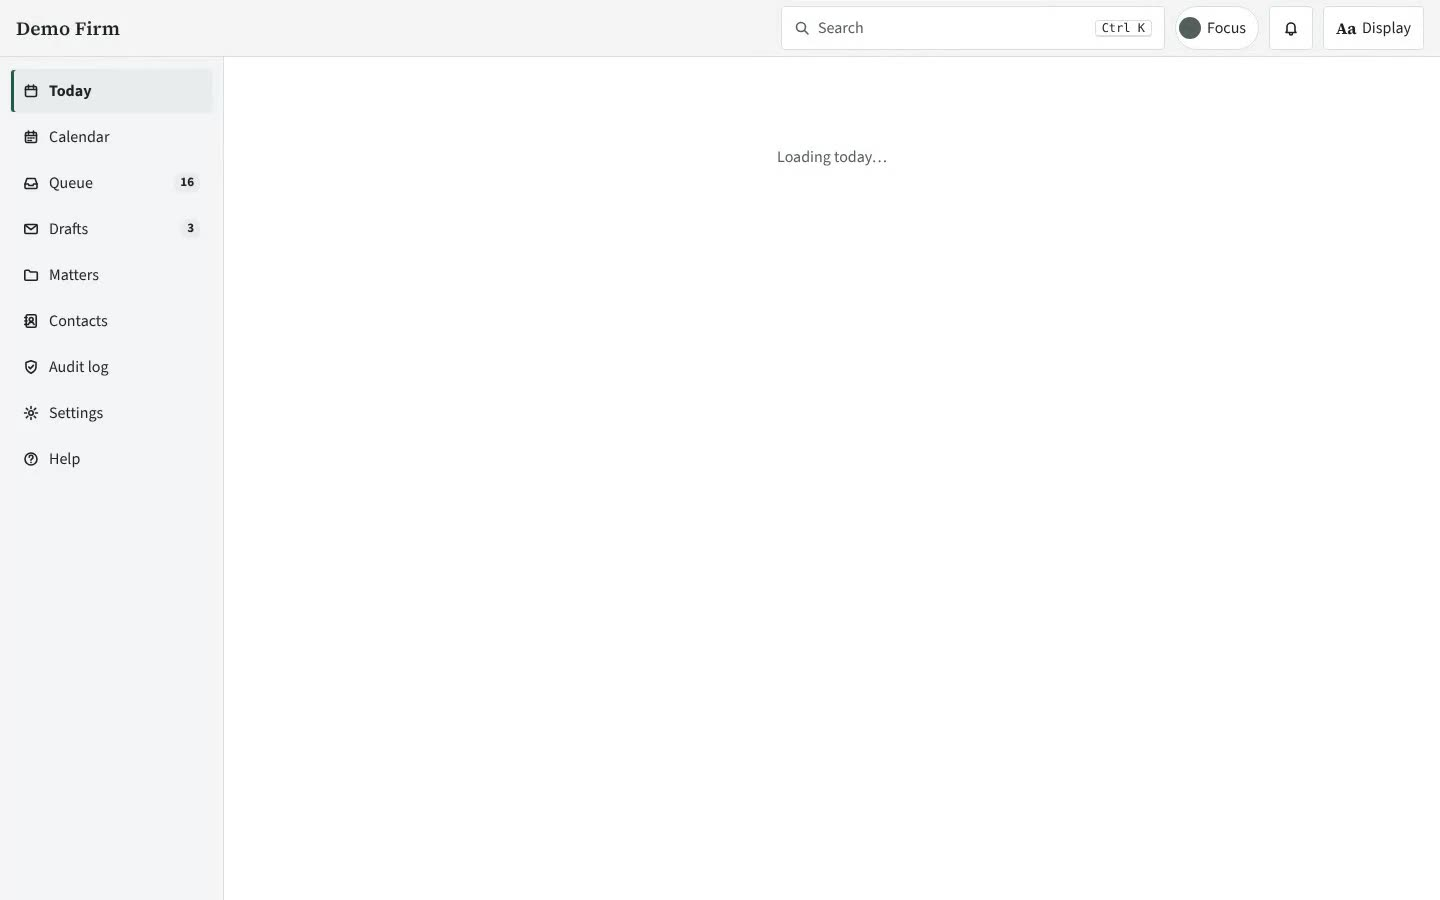
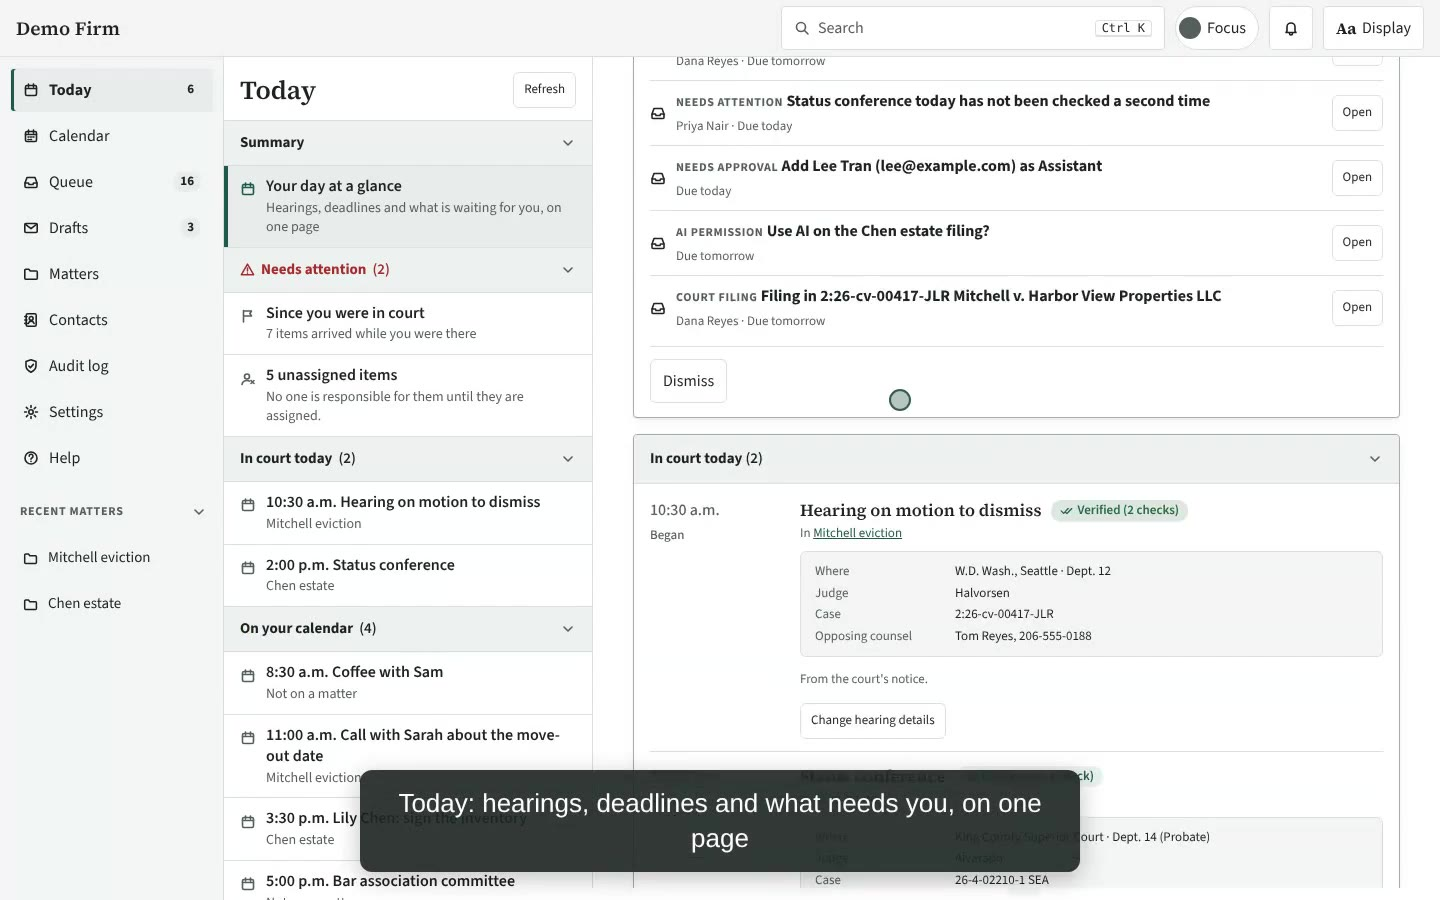
Website: video and screenshots fit the page (#18)
* Home and MatterSeal pages: say clearly what we build, how, for whom, and how firms pay

Google for Startups Cloud Program turned the application down because the
website didn't clearly describe the product and technology. The home page now
leads with MatterSeal, the problem, who it's for, the Google Cloud architecture,
the subscription prices, the company and contact. The MatterSeal page gains
'How MatterSeal is built' and 'How firms pay', and mentions the web version.

Claude-Session: https://claude.ai/code/session_01Ud3GrCnAWJSWNYQtaNFx8G

* Home page: sole practitioners and small firms; say we're building MatterSeal, not in a pilot

Claude-Session: https://claude.ai/code/session_01Ud3GrCnAWJSWNYQtaNFx8G

* Home page: MatterSeal works today and is in testing before launch

Claude-Session: https://claude.ai/code/session_01Ud3GrCnAWJSWNYQtaNFx8G

* Home and MatterSeal pages: a silent 47-second tour and four screenshots of the app

Recorded from the app's browser demo with made-up sample data (Demo Firm).

Claude-Session: https://claude.ai/code/session_01Ud3GrCnAWJSWNYQtaNFx8G

* Website: no founder name or prices; list the plans; add ransomware protection, AI cost, citations, client portal and audit features

Claude-Session: https://claude.ai/code/session_01Ud3GrCnAWJSWNYQtaNFx8G

* Website: AI agents and the AI supervision report, marked under development

Claude-Session: https://claude.ai/code/session_01Ud3GrCnAWJSWNYQtaNFx8G
[…]

diff --git a/index.html b/index.html
@@ -5,10 +5,10 @@
   <meta name="viewport" content="width=device-width, initial-scale=1">
   <title>Pangur Labs · Makers of MatterSeal</title>
   <meta name="description" content="Pangur Labs LLC builds MatterSeal, software that turns a small law firm's Gmail, Google Calendar and Google Drive into organized matters with confirmed court deadlines. Runs on Google Cloud. Sold as a monthly subscription.">
-  <link rel="stylesheet" href="style.css">
+  <link rel="stylesheet" href="style.css?v=2026-11-08">
 </head>
 <body>
-  <div class="wrap">
+  <div class="wrap wide">
     <main>
       <h1>Pangur Labs</h1>
       <p class="tagline">We build MatterSeal: case management for small law firms that run on Google Workspace.</p>
@@ -18,20 +18,22 @@
       <p><a class="button" href="matterseal/index.html">See how MatterSeal works</a></p>
 
       <h2>See it working</h2>
-      <p>A tour of MatterSeal, under two minutes long,, recorded in the app with made-up sample data. There is no sound; captions explain each step.</p>
-      <video class="demo" controls muted playsinline preload="metadata" poster="matterseal/img/demo-poster.jpg">
+      <p>A tour of MatterSeal, under two minutes long, recorded in the app with made-up sample data. There is no sound; captions explain each step.</p>
+      <div class="media">
+      <video class="demo" controls muted playsinline preload="metadata" width="1440" height="900" style="max-width:100%;height:auto" poster="matterseal/img/demo-poster.jpg">
         <source src="matterseal/img/demo.mp4" type="video/mp4">
         <a href="matterseal/img/demo.mp4">Download the tour (MP4)</a>
       </video>
       <div class="shots">
-        <figure><a href="matterseal/img/screen-ask.jpg"><img src="matterseal/img/screen-ask.jpg" alt="Two documents picked from a matter to send to AI, with what to do and the expected cost for each" loading="lazy" width="1600" height="1000"></a><figcaption>Pick documents from a matter, say what you want, and see the cost before anything goes to AI.</figcaption></figure>
-        <figure><a href="matterseal/img/screen-answer.jpg"><img src="matterseal/img/screen-answer.jpg" alt="The AI answer beside the document, with the bottom line first and links to the passages it relies on" loading="lazy" width="1600" height="1000"></a><figcaption>The answer, beside the document, pointing to the passages it relies on.</figcaption></figure>
-        <figure><a href="matterseal/img/screen-today.jpg"><img src="matterseal/img/screen-today.jpg" alt="MatterSeal's Today screen: today's hearings, deadlines and items waiting for review" loading="lazy" width="1600" height="1000"></a><figcaption>Today: hearings, deadlines and what is waiting for each person.</figcaption></figure>
-        <figure><a href="matterseal/img/screen-filing.jpg"><img src="matterseal/img/screen-filing.jpg" alt="A court filing matched to its matter, with the deadline MatterSeal proposes waiting for a person to confirm" loading="lazy" width="1600" height="1000"></a><figcaption>A court filing, matched to its matter. The deadline it proposes waits for a person to confirm it.</figcaption></figure>
-        <figure><a href="matterseal/img/screen-ai.jpg"><img src="matterseal/img/screen-ai.jpg" alt="An AI summary of a court filing, with each citation listed for a lawyer to look up and tick" loading="lazy" width="1600" height="1000"></a><figcaption>The AI summary of a filing. Each citation is listed for a lawyer to open and tick.</figcaption></figure>
-        <figure><a href="matterseal/img/screen-matters.jpg"><img src="matterseal/img/screen-matters.jpg" alt="The matters list beside one matter's page, with its stage, parties and items needing attention" loading="lazy" width="1600" height="1000"></a><figcaption>Every matter, and one page for each: stage, parties, email, drafts and deadlines.</figcaption></figure>
-        <figure><a href="matterseal/img/screen-costs.jpg"><img src="matterseal/img/screen-costs.jpg" alt="The running costs screen: Google Cloud and AI costs by day, with this month's totals" loading="lazy" width="1600" height="1000"></a><figcaption>Running costs: Google Cloud and AI, by day and month.</figcaption></figure>
-        <figure><a href="matterseal/img/screen-backups.jpg"><img src="matterseal/img/screen-backups.jpg" alt="The backups screen: a backup every 15 minutes, each checked, with the latest marked good" loading="lazy" width="1600" height="1000"></a><figcaption>Backups every 15 minutes, checked and locked against ransomware.</figcaption></figure>
+        <figure><a href="matterseal/img/screen-ask.jpg"><img src="matterseal/img/screen-ask.jpg" alt="Two documents picked from a matter to send to AI, with what to do and the expected cost for each" loading="lazy" width="1600" height="991" style="max-width:100%;height:auto"></a><figcaption>Pick documents from a matter, say what you want, and see the cost before anything goes to AI.</figcaption></figure>
+        <figure><a href="matterseal/img/screen-answer.jpg"><img src="matterseal/img/screen-answer.jpg" alt="The AI answer beside the document, with the bottom line first and links to the passages it relies on" loading="lazy" width="1600" height="991" style="max-width:100%;height:auto"></a><figcaption>The answer, beside the document, pointing to the passages it relies on.</figcaption></figure>
+        <figure><a href="matterseal/img/screen-today.jpg"><img src="matterseal/img/screen-today.jpg" alt="MatterSeal's Today screen: today's hearings, deadlines and items waiting for review" loading="lazy" width="1600" height="1000" style="max-width:100%;height:auto"></a><figcaption>Today: hearings, deadlines and what is waiting for each person.</figcaption></figure>
+        <figure><a href="matterseal/img/screen-filing.jpg"><img src="matterseal/img/screen-filing.jpg" alt="A court filing matched to its matter, with the deadline MatterSeal proposes waiting for a person to confirm" loading="lazy" width="1600" height="1000" style="max-width:100%;height:auto"></a><figcaption>A court filing, matched to its matter. The deadline it proposes waits for a person to confirm it.</figcaption></figure>
+        <figure><a href="matterseal/img/screen-ai.jpg"><img src="matterseal/img/screen-ai.jpg" alt="An AI summary of a court filing, with each citation listed for a lawyer to look up and tick" loading="lazy" width="1600" height="1000" style="max-width:100%;height:auto"></a><figcaption>The AI summary of a filing. Each citation is listed for a lawyer to open and tick.</figcaption></figure>
+        <figure><a href="matterseal/img/screen-matters.jpg"><img src="matterseal/img/screen-matters.jpg" alt="The matters list beside one matter's page, with its stage, parties and items needing attention" loading="lazy" width="1600" height="1000" style="max-width:100%;height:auto"></a><figcaption>Every matter, and one page for each: stage, parties, email, drafts and deadlines.</figcaption></figure>
+        <figure><a href="matterseal/img/screen-costs.jpg"><img src="matterseal/img/screen-costs.jpg" alt="The running costs screen: Google Cloud and AI costs by day, with this month's totals" loading="lazy" width="1600" height="1000" style="max-width:100%;height:auto"></a><figcaption>Running costs: Google Cloud and AI, by day and month.</figcaption></figure>
+        <figure><a href="matterseal/img/screen-backups.jpg"><img src="matterseal/img/screen-backups.jpg" alt="The backups screen: a backup every 15 minutes, each checked, with the latest marked good" loading="lazy" width="1600" height="1000" style="max-width:100%;height:auto"></a><figcaption>Backups every 15 minutes, checked and locked against ransomware.</figcaption></figure>
+      </div>
       </div>
 
       <h2>The problem</h2>

diff --git a/matterseal/index.html b/matterseal/index.html
@@ -6,10 +6,10 @@
   <title>MatterSeal · Pangur Labs</title>
   <meta name="description" content="MatterSeal sorts a small law firm's Gmail, Google Calendar and Google Drive into matters, with court deadlines a person confirms. Made by Pangur Labs.">
   <link rel="icon" href="img/seal-64.png" type="image/png">
-  <link rel="stylesheet" href="../style.css">
+  <link rel="stylesheet" href="../style.css?v=2026-11-08">
 </head>
 <body>
-  <div class="wrap">
+  <div class="wrap wide">
     <header>
       <a class="site-name" href="../index.html">Pangur Labs</a>
     </header>
@@ -28,20 +28,22 @@
       <hr class="section-rule">
 
       <h2>See it working</h2>
-      <p>A tour of MatterSeal, under two minutes long,, recorded in the app with made-up sample data. There is no sound; captions explain each step.</p>
-      <video class="demo" controls muted playsinline preload="metadata" poster="img/demo-poster.jpg">
+      <p>A tour of MatterSeal, under two minutes long, recorded in the app with made-up sample data. There is no sound; captions explain each step.</p>
+      <div class="media">
+      <video class="demo" controls muted playsinline preload="metadata" width="1440" height="900" style="max-width:100%;height:auto" poster="img/demo-poster.jpg">
         <source src="img/demo.mp4" type="video/mp4">
         <a href="img/demo.mp4">Download the tour (MP4)</a>
       </video>
       <div class="shots">
-        <figure><a href="img/screen-ask.jpg"><img src="img/screen-ask.jpg" alt="Two documents picked from a matter to send to AI, with what to do and the expected cost for each" loading="lazy" width="1600" height="1000"></a><figcaption>Pick documents from a matter, say what you want, and see the cost before anything goes to AI.</figcaption></figure>
-        <figure><a href="img/screen-answer.jpg"><img src="img/screen-answer.jpg" alt="The AI answer beside the document, with the bottom line first and links to the passages it relies on" loading="lazy" width="1600" height="1000"></a><figcaption>The answer, beside the document, pointing to the passages it relies on.</figcaption></figure>
-        <figure><a href="img/screen-today.jpg"><img src="img/screen-today.jpg" alt="MatterSeal's Today screen: today's hearings, deadlines and items waiting for review" loading="lazy" width="1600" height="1000"></a><figcaption>Today: hearings, deadlines and what is waiting for each person.</figcaption></figure>
-        <figure><a href="img/screen-filing.jpg"><img src="img/screen-filing.jpg" alt="A court filing matched to its matter, with the deadline MatterSeal proposes waiting for a person to confirm" loading="lazy" width="1600" height="1000"></a><figcaption>A court filing, matched to its matter. The deadline it proposes waits for a person to confirm it.</figcaption></figure>
-        <figure><a href="img/screen-ai.jpg"><img src="img/screen-ai.jpg" alt="An AI summary of a court filing, with each citation listed for a lawyer to look up and tick" loading="lazy" width="1600" height="1000"></a><figcaption>The AI summary of a filing. Each citation is listed for a lawyer to open and tick.</figcaption></figure>
-        <figure><a href="img/screen-matters.jpg"><img src="img/screen-matters.jpg" alt="The matters list beside one matter's page, with its stage, parties and items needing attention" loading="lazy" width="1600" height="1000"></a><figcaption>Every matter, and one page for each: stage, parties, email, drafts and deadlines.</figcaption></figure>
-        <figure><a href="img/screen-costs.jpg"><img src="img/screen-costs.jpg" alt="The running costs screen: Google Cloud and AI costs by day, with this month's totals" loading="lazy" width="1600" height="1000"></a><figcaption>Running costs: Google Cloud and AI, by day and month.</figcaption></figure>
-        <figure><a href="img/screen-backups.jpg"><img src="img/screen-backups.jpg" alt="The backups screen: a backup every 15 minutes, each checked, with the latest marked good" loading="lazy" width="1600" height="1000"></a><figcaption>Backups every 15 minutes, checked and locked against ransomware.</figcaption></figure>
+        <figure><a href="img/screen-ask.jpg"><img src="img/screen-ask.jpg" alt="Two documents picked from a matter to send to AI, with what to do and the expected cost for each" loading="lazy" width="1600" height="991" style="max-width:100%;height:auto"></a><figcaption>Pick documents from a matter, say what you want, and see the cost before anything goes to AI.</figcaption></figure>
+        <figure><a href="img/screen-answer.jpg"><img src="img/screen-answer.jpg" alt="The AI answer beside the document, with the bottom line first and links to the passages it relies on" loading="lazy" width="1600" height="991" style="max-width:100%;height:auto"></a><figcaption>The answer, beside the document, pointing to the passages it relies on.</figcaption></figure>
+        <figure><a href="img/screen-today.jpg"><img src="img/screen-today.jpg" alt="MatterSeal's Today screen: today's hearings, deadlines and items waiting for review" loading="lazy" width="1600" height="1000" style="max-width:100%;height:auto"></a><figcaption>Today: hearings, deadlines and what is waiting for each person.</figcaption></figure>
+        <figure><a href="img/screen-filing.jpg"><img src="img/screen-filing.jpg" alt="A court filing matched to its matter, with the deadline MatterSeal proposes waiting for a person to confirm" loading="lazy" width="1600" height="1000" style="max-width:100%;height:auto"></a><figcaption>A court filing, matched to its matter. The deadline it proposes waits for a person to confirm it.</figcaption></figure>
+        <figure><a href="img/screen-ai.jpg"><img src="img/screen-ai.jpg" alt="An AI summary of a court filing, with each citation listed for a lawyer to look up and tick" loading="lazy" width="1600" height="1000" style="max-width:100%;height:auto"></a><figcaption>The AI summary of a filing. Each citation is listed for a lawyer to open and tick.</figcaption></figure>
+        <figure><a href="img/screen-matters.jpg"><img src="img/screen-matters.jpg" alt="The matters list beside one matter's page, with its stage, parties and items needing attention" loading="lazy" width="1600" height="1000" style="max-width:100%;height:auto"></a><figcaption>Every matter, and one page for each: stage, parties, email, drafts and deadlines.</figcaption></figure>
+        <figure><a href="img/screen-costs.jpg"><img src="img/screen-costs.jpg" alt="The running costs screen: Google Cloud and AI costs by day, with this month's totals" loading="lazy" width="1600" height="1000" style="max-width:100%;height:auto"></a><figcaption>Running costs: Google Cloud and AI, by day and month.</figcaption></figure>
+        <figure><a href="img/screen-backups.jpg"><img src="img/screen-backups.jpg" alt="The backups screen: a backup every 15 minutes, each checked, with the latest marked good" loading="lazy" width="1600" height="1000" style="max-width:100%;height:auto"></a><figcaption>Backups every 15 minutes, checked and locked against ransomware.</figcaption></figure>
+      </div>
       </div>
 
       <h2>One page for each matter</h2>

diff --git a/style.css b/style.css
@@ -263,20 +263,37 @@ dl.faq dd {
   grid-column: 1 / -1;
 }
 
+/* Video and screenshots: wider than the text column on large screens, never wider than the window. */
+.media {
+  position: relative;
+  left: 50%;
+  width: min(1040px, calc(100vw - 40px));
+  transform: translateX(-50%);
+  margin: 1.25rem 0 2.5rem;
+}
+
 .demo {
   display: block;
   width: 100%;
+  max-width: 100%;
   height: auto;
-  margin: 1rem 0;
-  border: 1px solid var(--rule, #ccc);
-  border-radius: 6px;
+  border: 1px solid var(--rule);
+  border-radius: 10px;
+  box-shadow: 0 6px 24px rgba(0, 0, 0, 0.18);
+  background: #fff;
 }
 
 .shots {
   display: grid;
-  grid-template-columns: repeat(auto-fit, minmax(16rem, 1fr));
-  gap: 1rem;
-  margin: 1rem 0 2rem;
+  grid-template-columns: repeat(2, minmax(0, 1fr));
+  gap: 1.75rem 1.5rem;
+  margin-top: 1.75rem;
+}
+
+@media (max-width: 640px) {
+  .shots {
+    grid-template-columns: 1fr;
+  }
 }
 
 .shots figure {
@@ -286,12 +303,38 @@ dl.faq dd {
 .shots img {
   display: block;
   width: 100%;
+  max-width: 100%;
   height: auto;
-  border: 1px solid var(--rule, #ccc);
-  border-radius: 6px;
+  border: 1px solid var(--rule);
+  border-radius: 8px;
+  box-shadow: 0 3px 14px rgba(0, 0, 0, 0.14);
+}
+
+.shots a:hover img {
+  border-color: var(--accent);
 }
 
 .shots figcaption {
   font-size: 0.9rem;
-  margin-top: 0.4rem;
+  line-height: 1.45;
+  color: var(--muted);
+  margin-top: 0.5rem;
+}
+
+/* Home and MatterSeal pages: text and pictures share one left edge. Text keeps a
+   readable line length; the video and screenshots use the full width. */
+.wrap.wide {
+  max-width: 1080px;
+}
+
+.wrap.wide main > *:not(.media),
+.wrap.wide header > *,
+.wrap.wide footer > * {
+  max-width: 700px;
+}
+
+.wrap.wide .media {
+  left: auto;
+  width: 100%;
+  transform: none;
 }

diff --git a/matterseal/pricing.html b/matterseal/pricing.html
@@ -6,7 +6,7 @@
   <title>MatterSeal pricing · Pangur Labs</title>
   <meta name="description" content="MatterSeal pricing: hosted by Pangur Labs at $30 a month for a solo lawyer or $25 per firm plus $30 per user for a firm, or self-hosted at $15 per user per month with a 30-day trial.">
   <link rel="icon" href="img/seal-64.png" type="image/png">
-  <link rel="stylesheet" href="../style.css">
+  <link rel="stylesheet" href="../style.css?v=2026-11-08">
 </head>
 <body>
   <div class="wrap">

diff --git a/matterseal/data-processing.html b/matterseal/data-processing.html
@@ -5,7 +5,7 @@
   <meta name="viewport" content="width=device-width, initial-scale=1">
   <title>Data Processing Agreement · MatterSeal · Pangur Labs</title>
   <meta name="description" content="How Pangur Labs processes your firm's data in hosted MatterSeal.">
-  <link rel="stylesheet" href="../style.css">
+  <link rel="stylesheet" href="../style.css?v=2026-11-08">
 </head>
 <body>
   <div class="wrap">

diff --git a/matterseal/texting-consent.html b/matterseal/texting-consent.html
@@ -5,7 +5,7 @@
   <meta name="viewport" content="width=device-width, initial-scale=1">
   <title>Texting consent · MatterSeal · Pangur Labs</title>
   <meta name="description" content="How people agree to receive texts from a law firm that uses MatterSeal.">
-  <link rel="stylesheet" href="../style.css">
+  <link rel="stylesheet" href="../style.css?v=2026-11-08">
 </head>
 <body>
   <div class="wrap">

diff --git a/matterseal/privacy.html b/matterseal/privacy.html
@@ -5,7 +5,7 @@
   <meta name="viewport" content="width=device-width, initial-scale=1">
   <title>Privacy Policy · MatterSeal · Pangur Labs</title>
   <meta name="description" content="How Pangur Labs handles your information in hosted MatterSeal.">
-  <link rel="stylesheet" href="../style.css">
+  <link rel="stylesheet" href="../style.css?v=2026-11-08">
 </head>
 <body>
   <div class="wrap">

diff --git a/matterseal/subprocessors.html b/matterseal/subprocessors.html
@@ -5,7 +5,7 @@
   <meta name="viewport" content="width=device-width, initial-scale=1">
   <title>Subprocessors · MatterSeal · Pangur Labs</title>
   <meta name="description" content="The companies that process data for hosted MatterSeal.">
-  <link rel="stylesheet" href="../style.css">
+  <link rel="stylesheet" href="../style.css?v=2026-11-08">
 </head>
 <body>
   <div class="wrap">

diff --git a/privacy.html b/privacy.html
@@ -5,7 +5,7 @@
   <meta name="viewport" content="width=device-width, initial-scale=1">
   <title>Privacy Policy · Pangur Labs</title>
   <meta name="description" content="How Pangur Labs and MatterSeal handle your information.">
-  <link rel="stylesheet" href="style.css">
+  <link rel="stylesheet" href="style.css?v=2026-11-08">
 </head>
 <body>
   <div class="wrap">

diff --git a/matterseal/terms.html b/matterseal/terms.html
@@ -5,7 +5,7 @@
   <meta name="viewport" content="width=device-width, initial-scale=1">
   <title>Terms of Service · MatterSeal · Pangur Labs</title>
   <meta name="description" content="The terms for hosted MatterSeal.">
-  <link rel="stylesheet" href="../style.css">
+  <link rel="stylesheet" href="../style.css?v=2026-11-08">
 </head>
 <body>
   <div class="wrap">

diff --git a/privacy-apple.html b/privacy-apple.html
@@ -10,7 +10,7 @@
   <title>Privacy Policy for Apple Apps · Pangur Labs</title>
   <meta name="description" content="Privacy policy for Pangur Labs apps on Apple platforms.">
   <meta name="robots" content="noindex">
-  <link rel="stylesheet" href="style.css">
+  <link rel="stylesheet" href="style.css?v=2026-11-08">
 </head>
 <body>
   <div class="wrap">

diff --git a/support.html b/support.html
@@ -5,7 +5,7 @@
   <meta name="viewport" content="width=device-width, initial-scale=1">
   <title>Support · Pangur Labs</title>
   <meta name="description" content="Get help with Pangur Labs apps.">
-  <link rel="stylesheet" href="style.css">
+  <link rel="stylesheet" href="style.css?v=2026-11-08">
 </head>
 <body>
   <div class="wrap">
